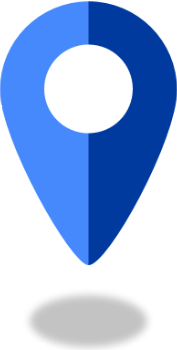
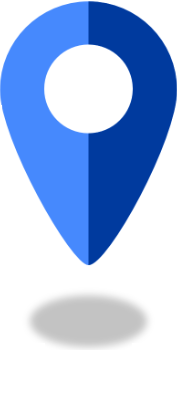
Update image styling on `ModeSelectScreen.js`

diff --git a/screens/ModeSelectScreen.js b/screens/ModeSelectScreen.js
@@ -39,9 +39,9 @@ function ModeSelectScreen({ navigation }) {
                 playback.
               </Text>
             </View>
-            <View style={{position: 'absolute', }}>
+            <View style={{position: 'absolute' }}>
               <Image
-                style={{ resizeMode: "contain", height: 160, width: 80,  }}
+                style={{ resizeMode: "contain", height: 100, width: 95,  }}
                 source={require("../assets/LocationIcon.png")}
               />
             </View>
@@ -71,9 +71,9 @@ function ModeSelectScreen({ navigation }) {
                 Use the camera on your phone to explore your surroundings in real time.
               </Text>
             </View>
-            <View style={{position: 'absolute', }}>
+            <View style={{position: 'absolute' }}>
               <Image
-                style={{ resizeMode: "contain", height: 200, width: 180, }}
+                style={{ resizeMode: "contain", height: 122, width: 120, }}
                 source={require("../assets/Paper_Plane.png")}
               />
             </View>
